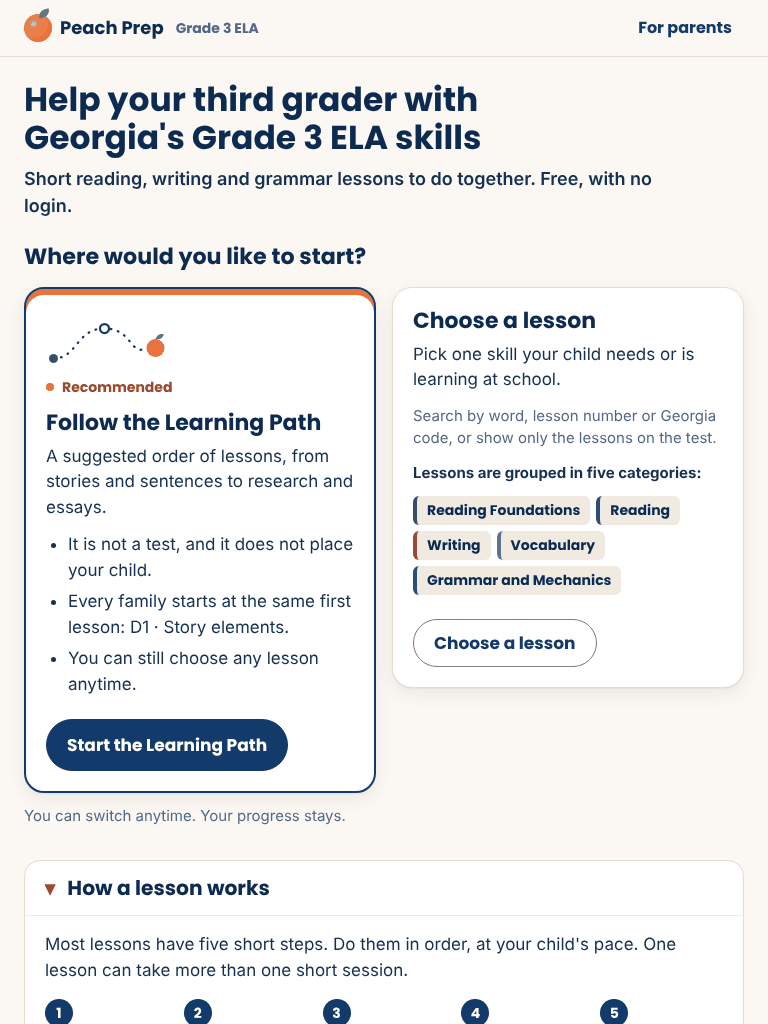
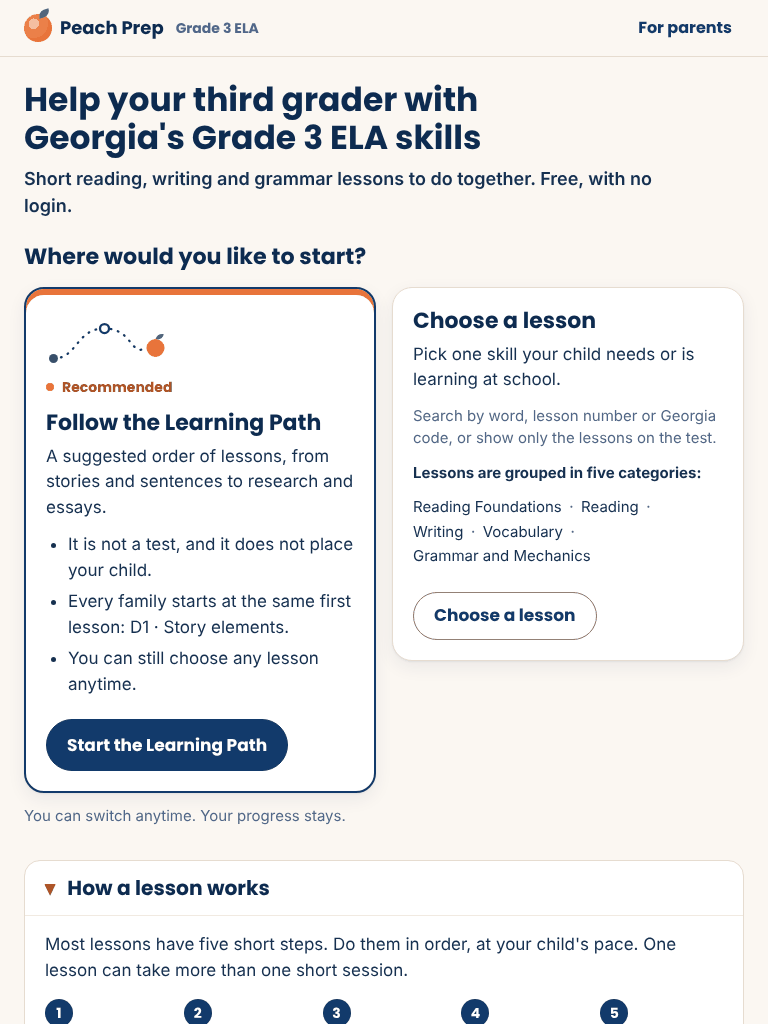
Home redesign: close QA-16..19 (legend announced once, category list non-interactive, pass date in accessible name, browse home added to accessibility/contrast suite)
Claude-Session: https://claude.ai/code/session_01HzSvYL6RYUpphLSjCuc3KZ

Changed region(s): [[0.5312, 0.4688, 0.9062, 0.6562], [0.0312, 0.0, 0.0625, 0.0312]]

diff --git a/js/skills.js b/js/skills.js
@@ -415,14 +415,17 @@
           b.appendChild(body);
           const due = st === "mastered" && !isTask(k) && reviewDue(k);
           const byG = st === "mastered" && !isTask(k) && passKind(k) === "grownup";
-          if (st === "mastered") b.appendChild(markEl(byG ? "grownup" : "passed"));
+          /* QA-19: say when it was passed, if the date is known (never invented) */
+          const passWhen = st === "mastered" && !isTask(k) && prog[k] && prog[k].passedAt ? niceDate(prog[k].passedAt) : "";
+          const passText = st === "mastered" ? passLabel(k) + (passWhen ? " on " + passWhen : "") : "";
+          if (st === "mastered") { const pm = markEl(byG ? "grownup" : "passed"); pm.title = passText; b.appendChild(pm); }
           else if (st === "started") b.appendChild(markEl("started"));
           /* PP-004 Retained: only with PP_FLAGS.retained on (a development setting); off, nothing here changes */
           const kept = st === "mastered" && !isTask(k) && retainedShown(k);
           if (kept) b.appendChild(make("span", "sl-review sl-retained", "retained"));
           else if (due) b.appendChild(make("span", "sl-review", "review"));
           b.setAttribute("aria-label", ids[k] + ". " + entryTitle(k) + ". Georgia " + entryCodes(k).map(shortCode).join(", ") + ". " +
-            (st === "mastered" ? passLabel(k) + "." + (kept ? " Retained." : due ? " Review suggested." : "") : st === "started" ? "Started." : ""));
+            (st === "mastered" ? passText + "." + (kept ? " Retained." : due ? " Review suggested." : "") : st === "started" ? "Started." : ""));
           b.addEventListener("click", () => openEntry(k));
           li.appendChild(b); ol.appendChild(li);
           any++; shown++; if (isTask(k)) shownTasks++;
@@ -576,7 +579,8 @@
      ["ring", "Category ring", "Lessons in that category with a passed skill check or a grown-up check."],
      ["finished", "Activities finished", "On the Learning Path: a tick you add to mark your place. It does not change any score."]
     ].forEach(([mark, name, line]) => {
-      const dt = make("dt"); const mk = make("span", "lg-mark"); mk.appendChild(markEl(mark)); dt.appendChild(mk); dt.appendChild(keepGrownUp(make("span", "lg-name"), name));
+      const dt = make("dt"); const mk = make("span", "lg-mark"); mk.appendChild(markEl(mark));
+      mk.setAttribute("aria-hidden", "true");   /* QA-17: the term beside it names it; read once */ dt.appendChild(mk); dt.appendChild(keepGrownUp(make("span", "lg-name"), name));
       dl.appendChild(dt); dl.appendChild(make("dd", "", line));
     });
     lg.appendChild(dl);

diff --git a/verification/path-contrast.js b/verification/path-contrast.js
@@ -1,4 +1,4 @@
-/* Solid-color text contrast check; avoids canvas in the packaged audit browser.
+/* Solid-color text contrast check, computed from styles rather than pixels.
    Reports unsupported image/opacity backgrounds rather than claiming a result. */
 () => {
   const root = document.querySelector('.screen:not([hidden])');
@@ -17,7 +17,12 @@
     const style = getComputedStyle(e);
     if (style.visibility === 'hidden') continue;
     const ancestors = []; for (let p = e; p; p = p.parentElement) ancestors.unshift(p);
-    if (ancestors.some(p => getComputedStyle(p).backgroundImage !== 'none' || +getComputedStyle(p).opacity < 1)) { unsupported.push(text.slice(0, 70)); continue; }
+    /* An image behind a nearer opaque solid background cannot show through it (2026-10-22, QA-16:
+       the category ring's count sits on a white disc in front of its conic-gradient ring). Only images
+       at or in front of the nearest opaque solid layer are unsupported; opacity is still checked on every ancestor. */
+    let solidFrom = 0;
+    ancestors.forEach((p, i) => { const cs = getComputedStyle(p), c = rgba(cs.backgroundColor); if (c && c[3] === 1 && cs.backgroundImage === 'none') solidFrom = i; });
+    if (ancestors.some((p, i) => (i >= solidFrom && getComputedStyle(p).backgroundImage !== 'none') || +getComputedStyle(p).opacity < 1)) { unsupported.push(text.slice(0, 70)); continue; }
     let bg = [255, 255, 255, 1];
     for (const p of ancestors) { const c = rgba(getComputedStyle(p).backgroundColor); if (c) bg = over(c, bg); }
     const color = rgba(style.color); if (!color) { unsupported.push(text.slice(0, 70)); continue; }

diff --git a/css/styles.css b/css/styles.css
@@ -951,9 +951,10 @@ mark.clue-w{background:none;color:inherit;}
 @media (min-width:640px){ .home-screen .learning-choices{align-items:start;} .choice-path{align-self:stretch;} }
 .choice-browse .btn-choice{margin-top:var(--s2);}
 .choice-chips-label{font-size:var(--fs-small);font-weight:700;color:var(--text);margin:0 0 var(--s2);}
-.choice-chips{list-style:none;margin:0 0 var(--s4);padding:0;display:flex;flex-wrap:wrap;gap:6px;}
-.choice-chip{font-family:var(--head);font-weight:600;font-size:var(--fs-label);color:var(--navy-deep);background:var(--line-soft);
-  border-left:4px solid var(--c,var(--navy));border-radius:6px;padding:4px 10px;cursor:default;}
+/* QA-18: the categories are plain text, not tiles, so nothing looks tappable */
+.choice-chips{list-style:none;margin:0 0 var(--s4);padding:0;display:flex;flex-wrap:wrap;gap:2px 0;font-size:var(--fs-small);color:var(--text);}
+.choice-chip{background:none;border:0;padding:0;font:inherit;color:inherit;}
+.choice-chip:not(:last-child)::after{content:"·" / "";margin:0 .5em;color:var(--muted);}
 @media (max-height:559px){ .choice-chips,.choice-chips-label{display:none;} }
 /* QA-08: the drift link sits after the primary, quieter */
 .np-drift{grid-column:1/-1;font-weight:600;font-size:var(--fs-small);justify-self:start;}

diff --git a/verification/path-a11y.py b/verification/path-a11y.py
@@ -1,9 +1,24 @@
 #!/usr/bin/env python3
-"""Axe WCAG A/AA automated checks of new choice/intro/path screens.
+"""Axe WCAG A/AA automated checks of the choice/intro/path screens and the browse home.
 Requires AXE_PATH to a local axe.min.js, optional CHROMIUM_PATH and CHROMIUM_ARGS.
 Serve the repository first; args: BASE_URL OUTPUT_DIRECTORY.
-Axe color-contrast is excluded: its canvas check exits this packaged renderer.
-A separate solid-color computed-style check is used; unsupported cases are reported.
+Choice/intro/path: the main axe run keeps color-contrast excluded, as it always has, and
+a separate solid-color computed-style check runs; unsupported cases are reported.
+Since 2026-10-22 (QA-16) each of those screens also gets a separate axe color-contrast run.
+Browse home (#screen-home, added 2026-10-22, QA-16): three saved states, a first browse
+visit, a returning family with progress (started, passed, review due, grown-up check)
+and every lesson passed, each with every <details> on the screen opened, checked with the
+same axe tags plus color-contrast, and with the solid-color check.
+Correction (2026-10-22): an earlier header said axe color-contrast "exits this packaged
+renderer". That was not reproduced. With Playwright 1.56 and headless Chromium 141.0.7390.37
+(the default build and /opt/pw-browsers/chromium-1194, no CHROMIUM_ARGS), axe-core 4.10.2
+and 4.14.0 (the version in the October 21 evidence) both ran color-contrast on the choice,
+path and browse screens at 320, 390, 768 and 1366 px with no crash, and the October 22
+review ran it in 98 of 98 state/viewport combinations. It may have been specific to the
+browser build or flags used on October 21, which were not recorded. It stays excluded from
+the original main run only so that run's results stay comparable. axe can report low contrast as "incomplete" rather than a
+violation (it did for the white-on-white all-passed text, QA-01), so the solid-color
+check stays and incomplete color-contrast counts are recorded.
 Automated checks do not replace real screen-reader testing.
 """
 import os,sys,json
@@ -11,6 +26,19 @@ from pathlib import Path
 from playwright.sync_api import sync_playwright
 base=sys.argv[1];out=Path(sys.argv[2]);out.mkdir(parents=True,exist_ok=True)
 checks=[]
+ccChecks=[];homeChecks=[]
+AXE_CC="""async selector=>{const r=await axe.run(document.querySelector(selector),{runOnly:{type:'rule',values:['color-contrast']}});return {violations:r.violations.map(v=>({id:v.id,nodes:v.nodes.map(n=>({target:n.target,summary:n.failureSummary}))})),incomplete:r.incomplete.reduce((a,v)=>a+v.nodes.length,0),passes:r.passes.reduce((a,v)=>a+v.nodes.length,0)};}"""
+HOME_STATES=['first-browse','returning-progress','all-passed']
+# Test fixtures only: written to this test browser's own storage before a reload.
+HOME_SEED="""state=>{const L=Object.keys(PP.lessons),d=n=>{const t=new Date(Date.now()-n*864e5);return t.getFullYear()+'-'+String(t.getMonth()+1).padStart(2,'0')+'-'+String(t.getDate()).padStart(2,'0')};
+ const pass=n=>({taught:true,mastered:true,passBy:'test',tries:1,best:{got:6,max:6},passedAt:d(n),lastPassAt:d(n),attempts:[{d:d(n),got:6,max:6,ok:true,n:1}]});
+ const quiz=L.filter(k=>PP.byId['SK:'+k+':t']),hands=L.filter(k=>PP.lessons[k].check&&!PP.byId['SK:'+k+':t']);let prog={};
+ if(state==='all-passed')L.forEach(k=>{prog[k]=hands.includes(k)?{mastered:true,passBy:'grownup',passedAt:d(2)}:pass(2);});
+ else{prog[quiz[0]]={taught:true,learned:true};prog[quiz[1]]={taught:true,learned:true,practiced:true};prog[quiz[2]]=pass(2);prog[quiz[3]]=pass(10);
+  if(hands[0])prog[hands[0]]={mastered:true,passBy:'grownup',passedAt:d(3)};prog._ui={lastCat:'reading'};}
+ localStorage.setItem('pp.progress.v1',JSON.stringify(prog));}"""
+HOME_SEEN="""(()=>{const s=document.querySelector('#screen-home'),c=x=>s.querySelectorAll(x).length,r={current:PP_APP.current(),passed:c('#skill-list .sl-done'),started:c('#skill-list .sl-started'),review:c('#skill-list .sl-review'),allPassedText:c('#up-next .un-done'),detailsClosed:c('details:not([open])')};
+ r.ok=r.current==='home'&&r.detailsClosed===0;return r;})()"""
 with sync_playwright() as p:
  for w,h in [(320,640),(390,844),(768,1024),(1366,900)]:
   opts={}
@@ -26,6 +54,35 @@ with sync_playwright() as p:
    contrast=q.evaluate((Path(__file__).parent/'path-contrast.js').read_text())
    checks.append({'width':w,'screen':name,'axeExcludedRules':['color-contrast'],'solidColorContrast':contrast,**r});print(str(w)+' '+name+': '+str(len(r['violations']))+' violations',flush=True)
    if w==390 and name=='intro':q.screenshot(path=str(out/'intro-390.png'),full_page=True)
+   cc=q.evaluate(AXE_CC,selector)
+   ccChecks.append({'width':w,'screen':name,**cc});print(str(w)+' '+name+' axe color-contrast: '+str(len(cc['violations']))+' violations, '+str(cc['incomplete'])+' incomplete',flush=True)
+  # Browse home (QA-16): three saved states, every <details> opened, axe with color-contrast plus the solid-color check
+  for state in HOME_STATES:
+   q.close();q=b.new_page(viewport={'width':w,'height':h})
+   q.route('**/fonts.g*/**',lambda r:r.abort())
+   q.add_init_script("if(!sessionStorage.getItem('pp-a11y-seeded')){sessionStorage.setItem('pp-a11y-seeded','1');localStorage.setItem('pp.path.v1',JSON.stringify({mode:'browse',introduced:true}));}")
+   q.goto(base);q.wait_for_function("document.querySelector('#build-badge').textContent.length>0")
+   if state!='first-browse':
+    q.evaluate(HOME_SEED,state);q.reload();q.wait_for_function("document.querySelector('#build-badge').textContent.length>0")
+   q.evaluate("document.querySelectorAll('#screen-home details').forEach(d=>d.open=true)")
+   seen=q.evaluate(HOME_SEEN)
+   q.add_script_tag(path=os.environ['AXE_PATH'])
+   r=q.evaluate("""async()=>{const r=await axe.run(document.querySelector('#screen-home'),{runOnly:{type:'tag',values:['wcag2a','wcag2aa','wcag21aa']}});return {violations:r.violations.map(v=>({id:v.id,impact:v.impact,description:v.description,nodes:v.nodes.map(n=>({target:n.target,summary:n.failureSummary}))})),incomplete:r.incomplete.map(v=>({id:v.id,nodes:v.nodes.length})),passes:r.passes.length,colorContrastRan:r.passes.concat(r.violations,r.incomplete).some(v=>v.id==='color-contrast')};}""")
+   contrast=q.evaluate((Path(__file__).parent/'path-contrast.js').read_text())
+   homeChecks.append({'width':w,'screen':'home','state':state,'stateRendered':seen,'axeExcludedRules':[],'solidColorContrast':contrast,**r})
+   print(str(w)+' home/'+state+': '+str(len(r['violations']))+' violations, contrast failures '+str(len(contrast['failures']))+', lowest '+str(round(contrast['minimum'],2))+', state ok '+str(seen['ok']),flush=True)
+   if w==390 and state=='all-passed':q.screenshot(path=str(out/'home-all-passed-390.png'),full_page=True)
   b.close()
 (out/'a11y-results.json').write_text(json.dumps(checks,indent=2)+'\n')
-sys.exit(1 if any(c['violations'] or c['solidColorContrast']['failures'] or c['solidColorContrast']['unsupported'] for c in checks) else 0)
+(out/'a11y-color-contrast-results.json').write_text(json.dumps(ccChecks,indent=2)+'\n')
+(out/'a11y-home-results.json').write_text(json.dumps(homeChecks,indent=2)+'\n')
+def home_state_ok(c):
+ s=c['stateRendered']
+ if not s['ok'] or not c['colorContrastRan']:return False
+ if c['state']=='first-browse':return s['passed']==0 and s['started']==0
+ if c['state']=='returning-progress':return s['passed']>=2 and s['started']>=2 and s['review']>=1 and s['allPassedText']==0
+ return s['allPassedText']==1 and s['started']==0
+bad_home=[c for c in homeChecks if c['violations'] or c['solidColorContrast']['failures'] or c['solidColorContrast']['unsupported'] or not home_state_ok(c)]
+print('main runs: '+str(len(checks))+', axe color-contrast runs: '+str(len(ccChecks))+', browse-home runs: '+str(len(homeChecks))+', browse-home runs with a problem: '+str(len(bad_home)),flush=True)
+sys.exit(1 if any(c['violations'] or c['solidColorContrast']['failures'] or c['solidColorContrast']['unsupported'] for c in checks)
+         or any(c['violations'] for c in ccChecks) or bad_home or len(homeChecks)!=4*len(HOME_STATES) else 0)

diff --git a/docs/design/home-2026-10-22/04-implementation.md b/docs/design/home-2026-10-22/04-implementation.md
@@ -258,3 +258,68 @@ The logs are in `/tmp/claude-0/-home-claude/e539678b-b5ce-5aba-86fc-30dcadc6e172
 - `after-qa01-all-passed-390x844.png` and `-1366x768.png`
 - `after-qa02-storage-blocked-390x844.png` and `-1366x768.png`
 - `after-qa04-legend-and-list-390x844.png`
+
+---
+
+## 7. After QA-16..19 (final re-review of 595ef01)
+
+The rules were the same as before: no storage key added, changed or migrated, every render still writes nothing, and no git commands. This round edits `verification/`, as QA-16 asked. Coverage was only added. No existing check was removed or loosened (see QA-16 for the one change to `path-contrast.js`).
+
+Server: `node verification/serve.js . 8640`. Scratch scripts and logs are in `/tmp/claude-0/-home-claude/e539678b-b5ce-5aba-86fc-30dcadc6e172/scratchpad/qa1619/`.
+
+### What I did, finding by finding
+
+| Finding | What I did | Evidence |
+|---|---|---|
+| **QA-17** (each legend term read twice) | **Fixed.** `js/skills.js` `buildProgress()` sets `aria-hidden="true"` on each legend's `.lg-mark` wrapper. The mark stays visible. The `<dt>` is now read as the term alone, and its `<dd>` meaning follows it. The list rows are unchanged: they still build their marks with the same `markEl()`. | In Chromium's own accessibility tree (CDP `Accessibility.getFullAXTree`, plus Playwright `aria_snapshot()`), the seven terms read exactly "Started", "Step done", "Passed the skill check", "Checked by a grown-up", "Review suggested", "Category ring", "Activities finished", each followed by its definition, at 390×844 and 1366×768. Negative control: with `aria-hidden` removed in the page, the same snapshot reads "Started Started", "✓ Step done", "✓ passed Passed the skill check". |
+| **QA-18** (category chips look tappable) | **Made plainly non-interactive.** This is the simpler and more honest option: the card's button already opens the list, and adding a second way in, which must not change the saved mode, would add behaviour for little gain. The five categories are still a `<ul>` under "Lessons are grouped in five categories:", but now as a line of plain body text: no fill, coloured edge, radius or padding, regular weight, the default cursor, and nothing focusable. A middle dot separates them visually (`content:"·" / ""`, so screen readers do not hear it). Only `css/styles.css` changed. | At 390 and 1366: five `<li>`, computed background transparent, border 0, radius 0, padding 0, weight 400, cursor `auto`, none focusable. The aria snapshot has five list items and no "·". A click on a category changes nothing (same screen, every storage key byte-identical). Screenshots: `after/after-first-visit-*.png` (all seven viewports) and `after/after-saved-work-no-mode-*.png`. |
+| **QA-19** (passed mark lost its tooltip) | **Restored, with the date.** The row's accessible name and the mark's `title` now say "Passed the skill check on October 1, 2026" (or "Checked by a grown-up on …"). The date is the stored `passedAt`, formatted by the existing `niceDate()`. With no `passedAt`, for example an undated 2.1 pass (`legacyUndated`), the text is the plain label and no date is invented. The title is extra; the information is in the button's `aria-label`, which is what assistive technology reads. | Rows with a dated pass: aria-label "…Passed the skill check on October 1, 2026." and the same `title`. Rows with a legacy undated pass end "…Passed the skill check." No page errors with a malformed (string) record. **Guard 9.8** checks that "Passed the skill check" is in the label, and **11.9** and **11.11** check "Checked by a grown-up" and the absence of "Passed the skill check". Those substrings are unchanged, and 14.4 and 14.5 ("Retained" absent) are unaffected because no month name contains it. All of these pass in the full guard below. |
+| **QA-16** (tooling) | **Done in `verification/`.** See the next section. | |
+
+Scratch check `qa1619/check.py`: **22 passed, 0 failed** (QA-17, QA-18 and QA-19 at 390×844 and 1366×768).
+
+### QA-16: `path-a11y.py` and `path-contrast.js`
+
+**The crash claim.** The header said axe `color-contrast` "exits this packaged renderer". I tested this, and it was not reproduced. I used Playwright 1.56 with headless Chromium 141.0.7390.37: the default build, and `/opt/pw-browsers/chromium-1194` with no `CHROMIUM_ARGS`. With both axe-core 4.10.2 and 4.14.0 (4.14.0 is the version named in the October 21 evidence README), `color-contrast` ran on the choice, path and browse screens at 320, 390, 768 and 1366 px. Nothing crashed, and each run took under 2.5 s. The October 21 failure may have depended on a browser build or flags that were not recorded. The header now says this, and it also says why the computed-style check is kept: axe reported QA-01 only as "incomplete".
+
+**Added to `path-a11y.py`.** The original loop is untouched: choice, intro and path at 320×640, 390×844, 768×1024 and 1366×900, with the same axe tags, `color-contrast` still excluded from that main run, and the same `path-contrast.js` check and failure rule. The script now also runs:
+- **An axe `color-contrast`-only run on each of those 12 screen/width runs.** Results go to `a11y-color-contrast-results.json`, and any violation fails the script.
+- **The browse home (`#screen-home`) at the same four viewports, in three saved states, with every `<details>` on the screen opened:**
+  - `first-browse`: browse mode, no progress
+  - `returning-progress`: two started lessons, one recent pass, one pass ten days old (review due) and a grown-up check
+  - `all-passed`: every lesson passed or grown-up checked, the QA-01 state
+
+  Each run uses axe with the same WCAG tags, color-contrast included, plus `path-contrast.js`. The script also asserts that the state really rendered, by counting list marks and the all-passed message, so the coverage cannot pass vacuously. Results go to `a11y-home-results.json`, and the screenshot to `home-all-passed-390.png`. A violation, contrast failure, unsupported item, mis-rendered state or missing run fails the script.
+
+**One change to `path-contrast.js`, which adds measurements.** Before, any background image anywhere among the ancestors made the text "unsupported". On the browse home that hit only the six category-ring counts ("3/24"). Each count sits on an opaque white disc (`.cc-ring-n`, `#fff`) in front of the ring's conic gradient. The function now ignores images that lie behind the nearest opaque solid background, because they cannot show through it. Images at or in front of that layer are still unsupported, and opacity below 1 on any ancestor still is. On choice, intro and path the results are identical to before: 0 unsupported, lowest ratio 5.38:1.
+
+**Negative control.** In the all-passed state at 390×844, injecting the QA-01 regression (`.next-panel .un-done{color:#fff}`) makes `path-contrast.js` report one failure at 1:1.
+
+**Run** (`AXE_PATH=<scratch>/axe/package/axe.min.js python3 verification/path-a11y.py http://localhost:8640/ <out>`), exit 0:
+
+| Part | Runs | Result |
+|---|---|---|
+| Main axe run (choice, intro, path) | 12 | 0 violations. Computed contrast: 0 failures, 0 unsupported, lowest 5.38:1 |
+| axe `color-contrast` only (same 12) | 12 | 0 violations, 0 incomplete |
+| Browse home, three states × four viewports | 12 | 0 axe violations (color-contrast included). Computed contrast: 7,080 text nodes, 0 failures, 0 unsupported, lowest 4.64:1. All three states rendered as seeded. axe `color-contrast` "incomplete" in each run: `.step-n` and `.lg-box`, both glyph-only legend marks (white ✓ on #17703F, 6.13:1, per 06) |
+
+### Test counts (port 8640)
+
+| Command | Result |
+|---|---|
+| `node verification/check-content.js --all` | PASS: 0 failures, the same 6 warnings |
+| `node verification/check-writing.js` | 0 failures, 0 warnings |
+| `node verification/check-instructional-copy.js` | 28 passed |
+| `python3 verification/readability.py` | identical to the previous candidate run (125 records) |
+| `python3 verification/path.py http://localhost:8640/ <out>` | **148 passed, 0 failed** |
+| `path-a11y.py` (extended) | **36 runs (12 + 12 + 12): 0 violations, 0 contrast failures, 0 unsupported, exit 0** |
+| `python3 verification/path-headers.py http://localhost:8640/ <out>` | **48 passed, 0 failed** |
+| `CHROMIUM_PATH=/opt/pw-browsers/chromium-1194/chrome-linux/chrome python3 verification/skills-recovery.py` | **67 passed, 0 failed** |
+| `CHROMIUM_PATH=… python3 verification/writing-recovery.py` | **75 passed, 0 failed** |
+| scratch `home-behaviour.py` (the 214 checks from §6, pointed at 8640) | **214 passed, 0 failed** |
+| scratch `qa1619/check.py` (QA-17 to QA-19) | **22 passed, 0 failed** |
+| **Full guard** via the fixture launcher copy (`guard-fixture.py guard /home/claude/pp-home http://localhost:8640/ <scratch>/qa1619/guard`) | **110 passed, 0 failed, exit 0** (including 9.8, 11.9 and 11.11) |
+
+**AFTER screenshots retaken** (same seeds and script as §3, port 8640): `after-first-visit-*` at all seven viewports and `after-saved-work-no-mode-390x844` and `-1366x768`. These are the screens with the category line. The other AFTER files are unchanged. QA-17 and QA-19 change nothing visible; the title tooltip shows only on hover.
+
+**Not verified:** real screen readers (VoiceOver, TalkBack, NVDA), Safari and Firefox. The accessible names were checked in Chromium's accessibility tree only.
